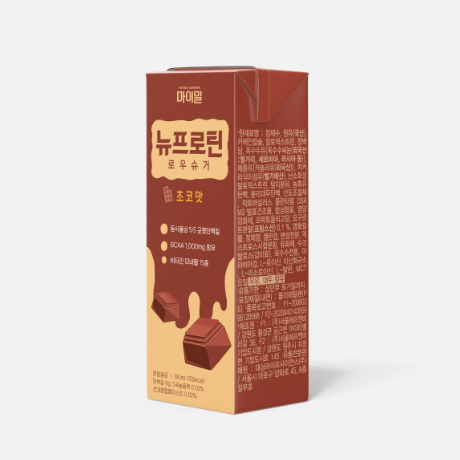
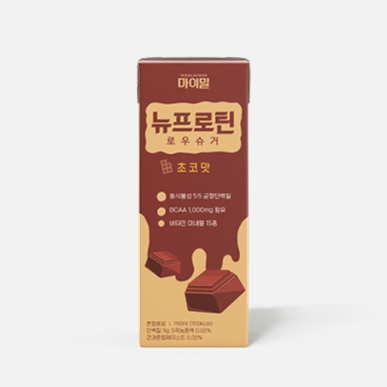
0813
etc완성

Changed region(s): [[0.3101, 0.124, 0.6822, 0.8992]]

diff --git a/index.html b/index.html
@@ -635,63 +635,62 @@
 
       <div class="threed-grid">
         <!-- 첫 번째 줄 -->
-        <div class="threed-item modal-trigger" data-modal-image="assets/img/etc/hanok.jpg" data-title="한옥화전">
+        <div class="threed-item modal-trigger" data-modal-image="assets/img/etc/busan.jpg" data-title="영도구 마을 캐릭터">
           <div class="threed-item-image">
-            <img src="assets/img/etc/sum/han.png" alt="한옥" class="image-default">
-            <img src="assets/img/etc/sum/han2.png" alt="한옥 호버" class="image-hover">
+            <img src="assets/img/etc/sum/busan.png" alt="영도구 마을 캐릭터" class="image-default">
+            <img src="assets/img/etc/sum/busan2.png" alt="영도구 마을 캐릭터 호버" class="image-hover">
           </div>
-          <div class="threed-item-title">한옥화전</div>
-          <div class="threed-item-subtitle">모던한옥 갤러리 VMD & 패키지</div>
+          <div class="threed-item-title">영도구 마을 캐릭터</div>
+          <div class="threed-item-subtitle">부산 지역문화상품</div>
         </div>
 
         <div class="threed-item modal-trigger" 
-        data-modal-image="assets/img/etc/mungu-vmd.pdf" 
-        data-title="문구팝업">
+        data-modal-image="assets/img/etc/newprotain.jpg" 
+        data-title="뉴프로틴">
           <div class="threed-item-image">
-            <img src="assets/img/etc/sum/pop.png" alt="문구팝업" class="image-default">
-            <img src="assets/img/etc/sum/pop2.png" alt="문구팝업 호버" class="image-hover">
+            <img src="assets/img/etc/sum/new.png" alt="뉴프로틴" class="image-default">
+            <img src="assets/img/etc/sum/new2.png" alt="뉴프로틴 호버" class="image-hover">
           </div>
-          <div class="threed-item-title">브랜드문구 팝업</div>
-          <div class="threed-item-subtitle">팝업스토어 VMD</div>
+          <div class="threed-item-title">뉴프로틴 패키지디자인</div>
+          <div class="threed-item-subtitle">'대상라이프' 협업 랩실</div>
         </div>
 
-        <div class="threed-item modal-trigger" data-modal-image="assets/img/etc/bloomingtale.pdf" data-title="블루밍테일">
+        <div class="threed-item modal-trigger" data-modal-image="assets/img/etc/nonocafe.pdf" data-title="노노카페">
           <div class="threed-item-image">
-            <img src="assets/img/etc/sum/bloom.png" alt="블루밍테일">
-            <img src="assets/img/etc/sum/bloom2.png" alt="블루밍테일 호버" class="image-hover">
+            <img src="assets/img/etc/sum/no.png" alt="노노카페">
           </div>
-          <div class="threed-item-title">블루밍테일</div>
-          <div class="threed-item-subtitle">브랜드매장 VMD</div>
+          <div class="threed-item-title">노노카페 패키지디자인</div>
+          <div class="threed-item-subtitle">공공디자인 나눔사업 경기도지사 표창</div>
         </div>
 
         <!-- 두 번째 줄 (필요시 추가) -->
-        <div class="threed-item modal-trigger" data-modal-image="assets/img/etc/cider.pdf" data-title="샵사이다">
+        <div class="threed-item modal-trigger" data-modal-image="assets/img/etc/hiltonhotel.pdf" data-title="힐튼호텔">
           <div class="threed-item-image">
-            <img src="assets/img/etc/sum/cider.png" alt="샵사이다" class="image-default">
-            <img src="assets/img/etc/sum/cider2.png" alt="샵사이다 호버" class="image-hover">
+            <img src="assets/img/etc/sum/hilton.png" alt="힐튼호텔" class="image-default">
+            <img src="assets/img/etc/sum/hilton2.png" alt="힐튼호텔 호버" class="image-hover">
           </div>
-          <div class="threed-item-title">샵사이다 팝업</div>
-          <div class="threed-item-subtitle">팝업스토어 VMD</div>
+          <div class="threed-item-title">힐튼 호텔 로고</div>
+          <div class="threed-item-subtitle">브랜딩 로고 리디자인</div>
         </div>
 
         <div class="threed-item modal-trigger" 
-        data-modal-image="assets/img/etc/color.jpg" 
-        data-title="레트로철제가구">
+        data-modal-image="assets/img/etc/hobby.jpg" 
+        data-title="취미작업">
           <div class="threed-item-image">
-            <img src="assets/img/etc/sum/color.png" alt="레트로철제가구" class="image-default">
-            <img src="assets/img/etc/sum/color2.png" alt="레트로철제가구 호버" class="image-hover">
+            <img src="assets/img/etc/sum/book.png" alt="취미작업" class="image-default">
+            <img src="assets/img/etc/sum/book2.png" alt="취미작업 호버" class="image-hover">
           </div>
-          <div class="threed-item-title">레트로 모듈철제가구</div>
-          <div class="threed-item-subtitle">색채 디자인</div>
+          <div class="threed-item-title">취미 작업</div>
+          <div class="threed-item-subtitle">문구페어 / 독서모임</div>
         </div>
 
-        <div class="threed-item modal-trigger" data-modal-image="assets/img/etc/bentto.jpg" 
-        data-modal-video="assets/img/etc/bentto.mp4" data-title="벤또롱또똣">
+        <div class="threed-item modal-trigger" data-modal-image="assets/img/etc/personal-logo.jpg" 
+        data-title="퍼스널로고">
           <div class="threed-item-image">
-            <img src="assets/img/etc/sum/bento.png" alt="벤또롱또똣">
+            <img src="assets/img/etc/sum/logo.png" alt="퍼스널로고">
+            <img src="assets/img/etc/sum/logo2.png" alt="퍼스널로고 호버" class="image-hover">
           </div>
-          <div class="threed-item-title">벤또롱또똣 도시락 플랫폼</div>
-          <div class="threed-item-subtitle">창업300 최종선정 교육부장관 인증</div>
+          <div class="threed-item-title">퍼스널로고</div>
         </div>
       </div>
     </section>
